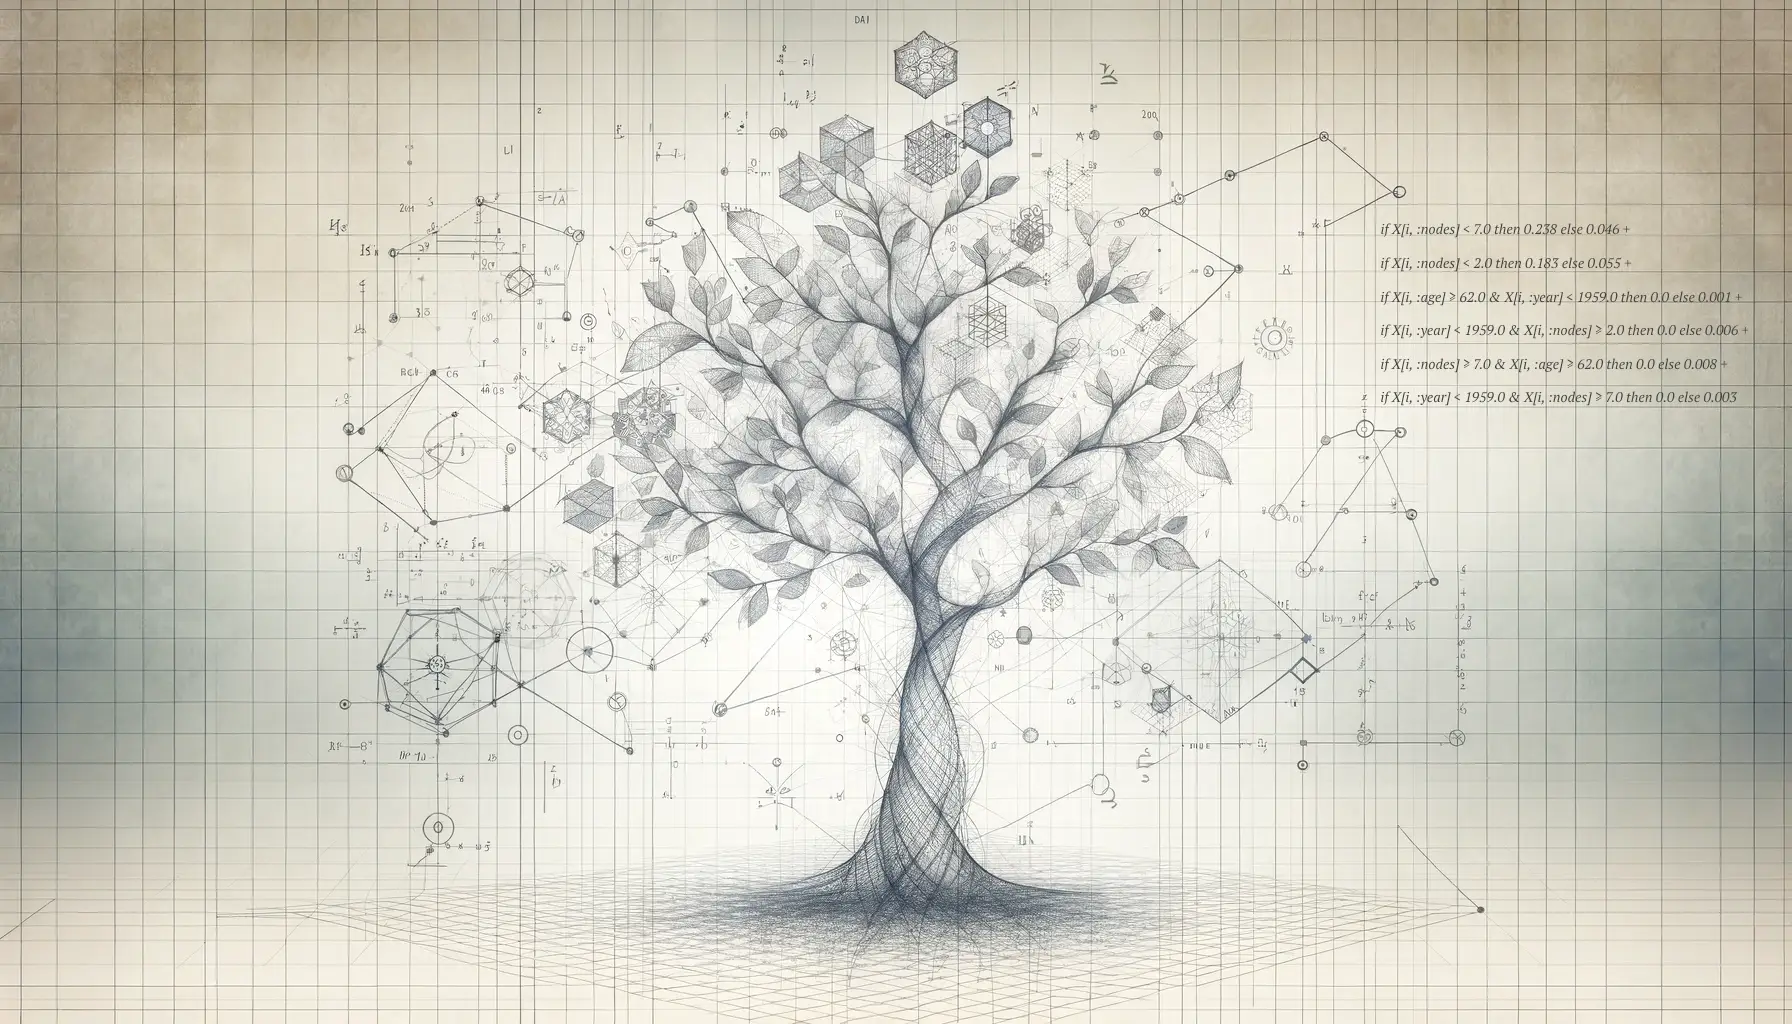
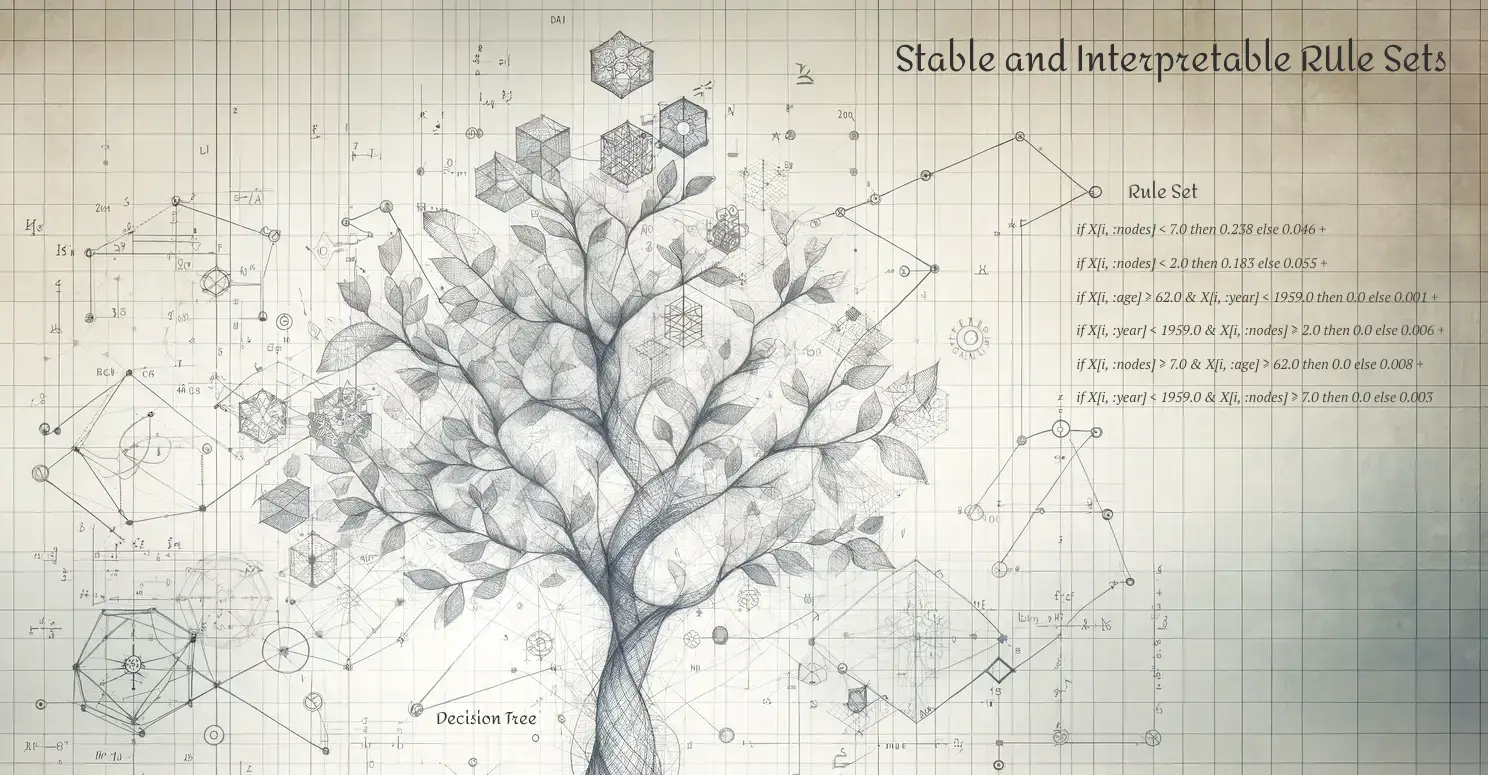
Crop image

diff --git a/docs/src/image/README.md b/docs/src/image/README.md
@@ -1,1 +1,4 @@
 The image was created by DALL·E via ChatGPT when asking it multiple times to generate a wide image for the algorithm at https://github.com/rikhuijzer/SIRUS.jl/ and then asking for an image a bit in the style of a light mathematical drawing.
+
+The font for Random Forest and Rule Set is Amita.
+The font for the rules is Noto Serif (if I remember correctly).

diff --git a/docs/src/index.md b/docs/src/index.md
@@ -1,4 +1,4 @@
-# SIRUS
+# SIRUS.jl
 
 ![
 Pretty visual representation of the algorithm via an image that was generated via DALL·E
